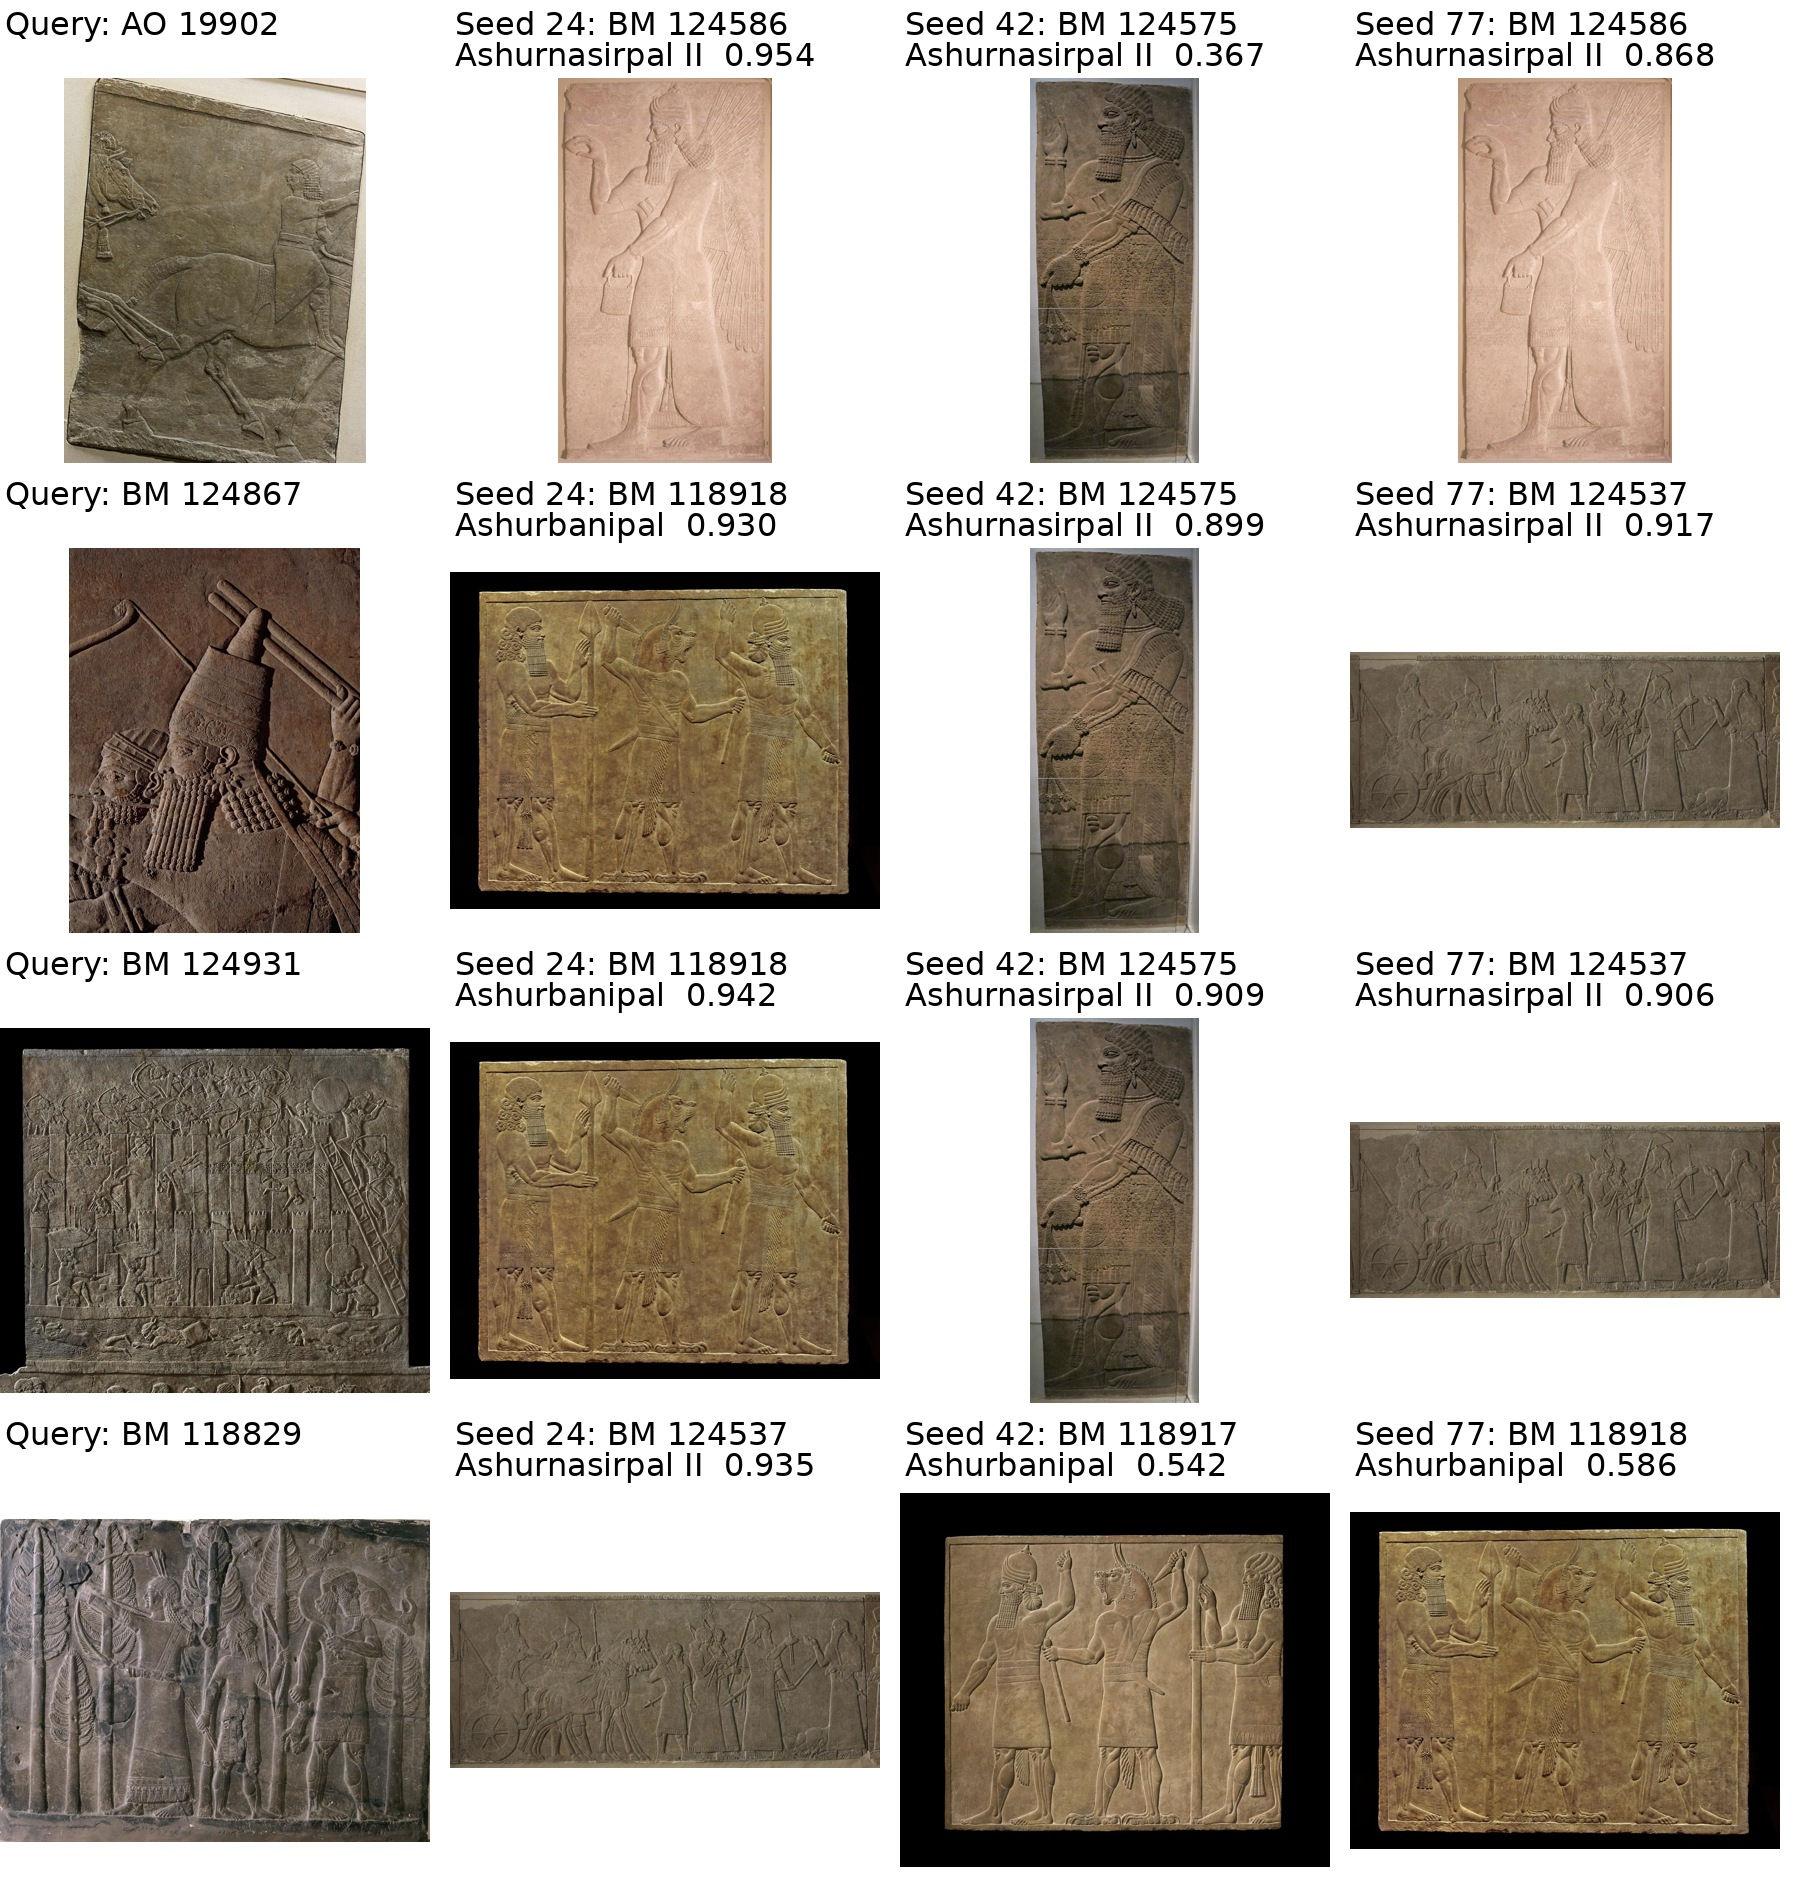
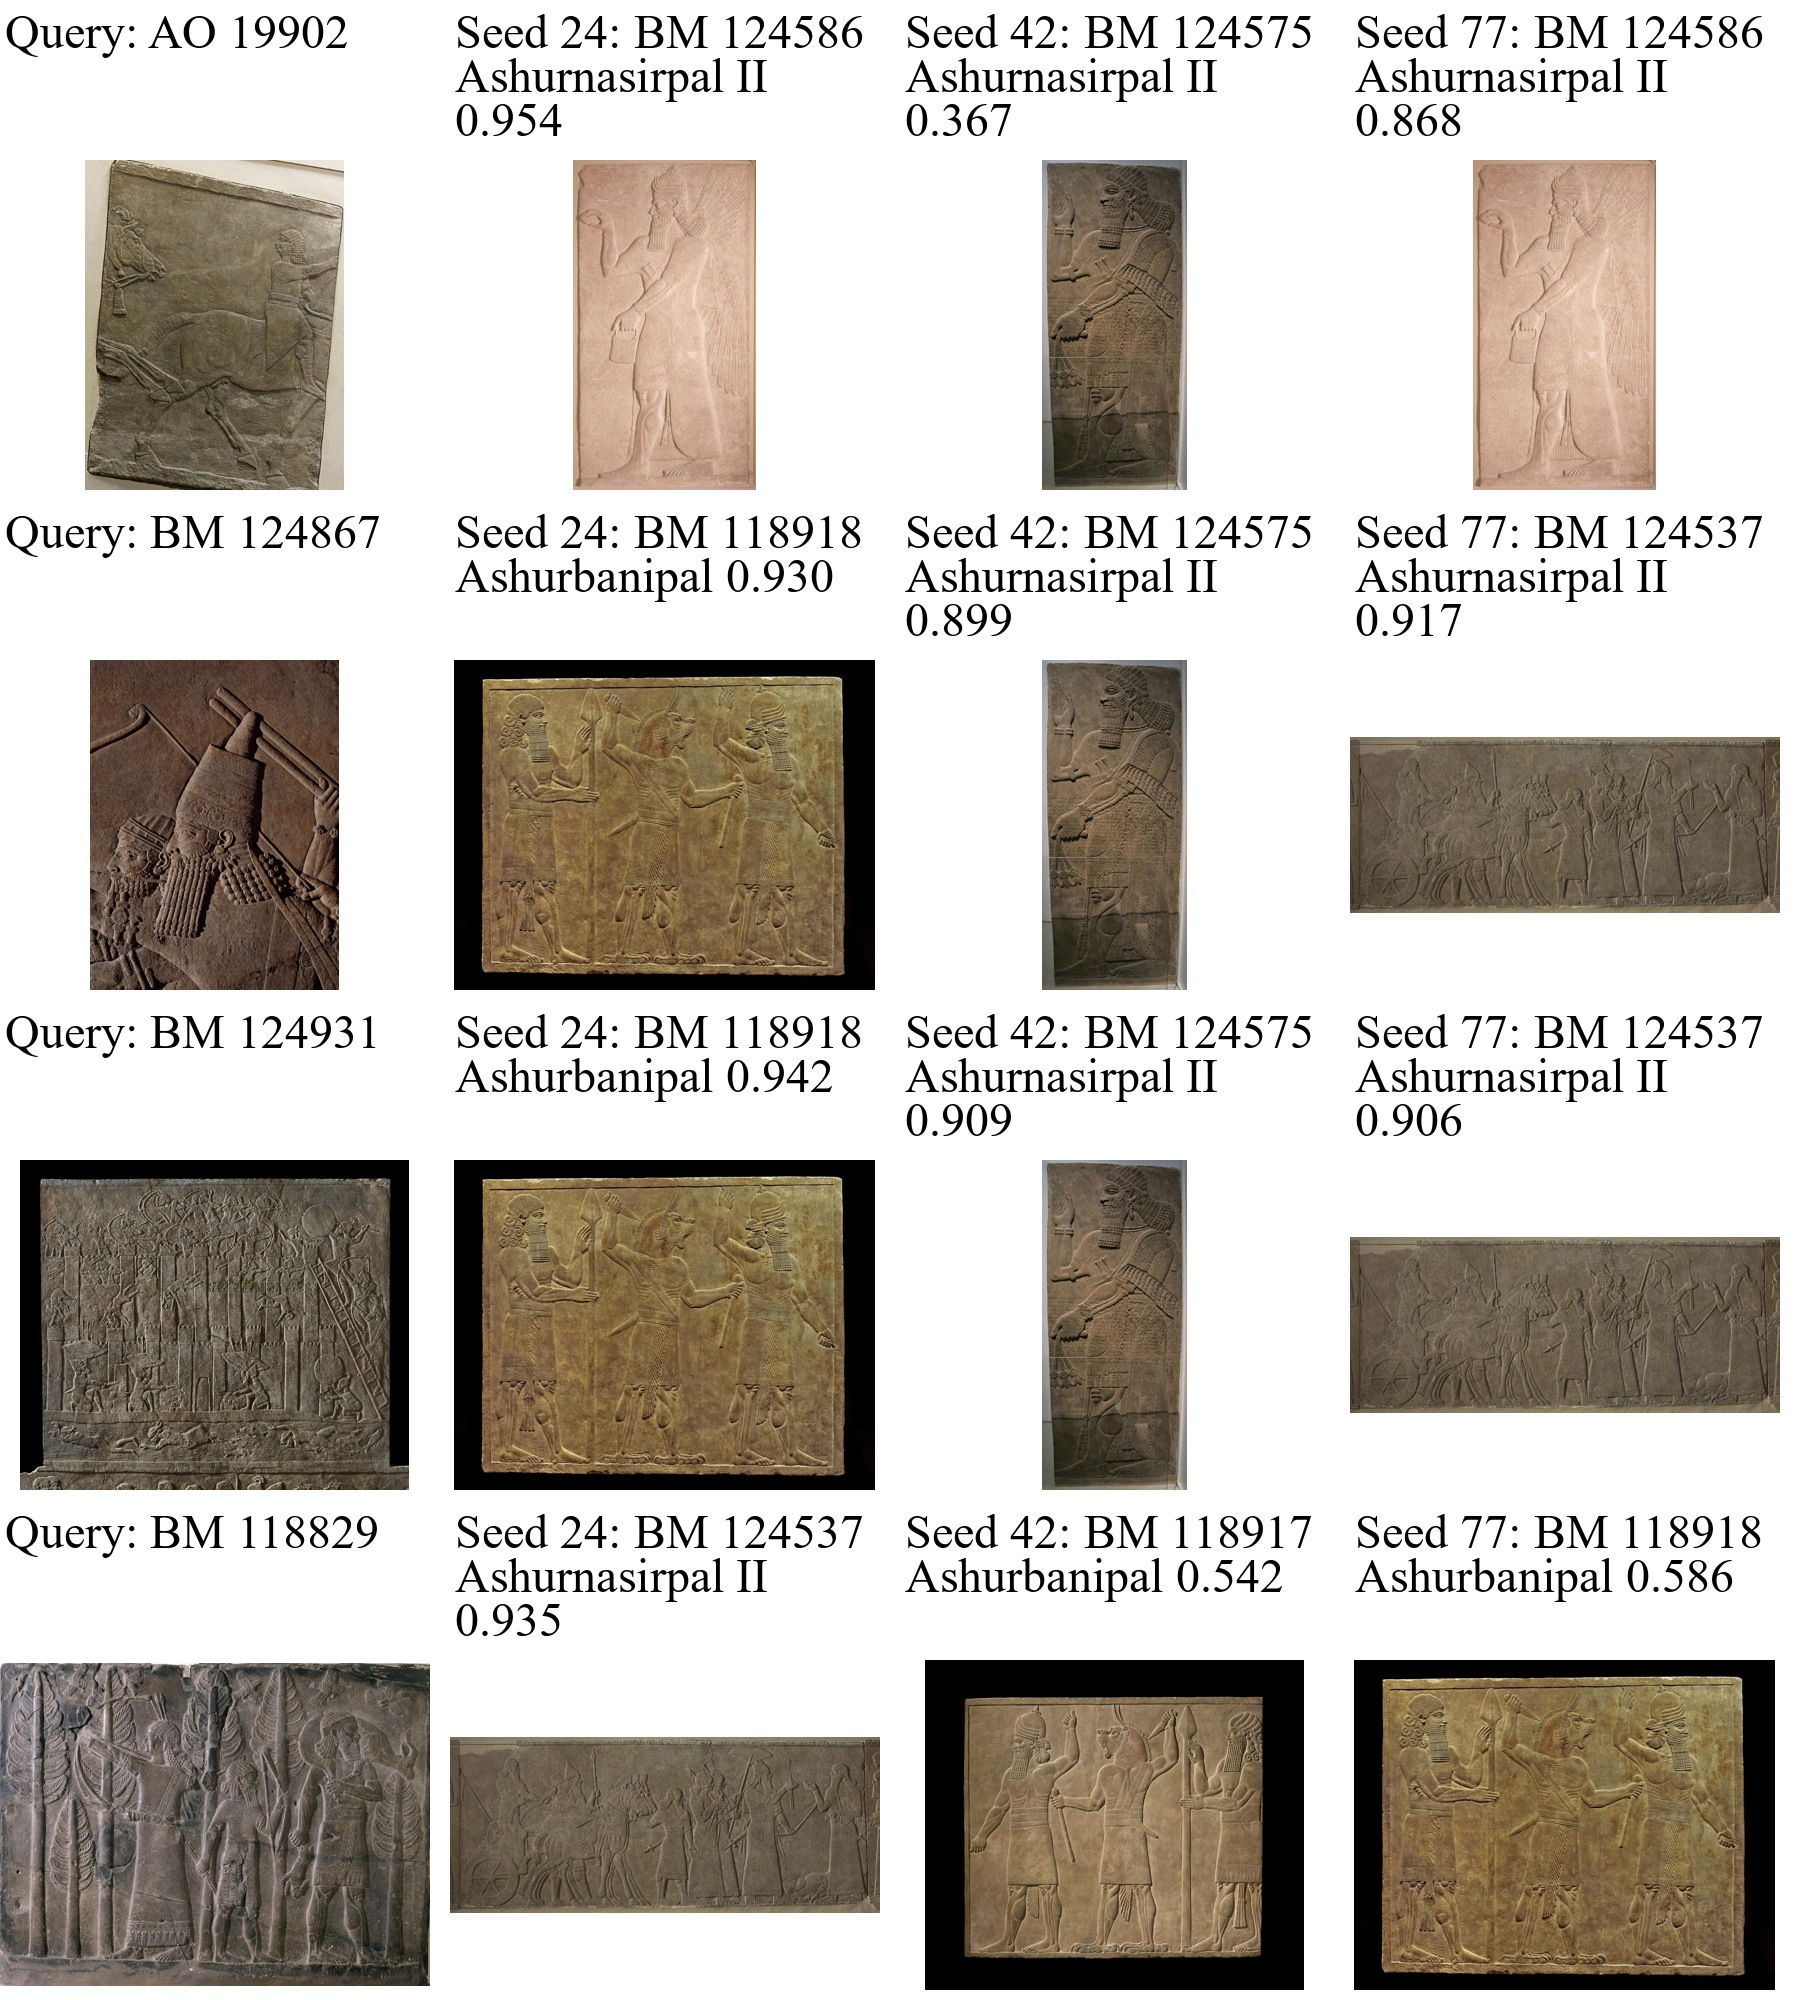
Align submission figures and record image credits and revised PDF

diff --git a/scripts/render_submission_figures.py b/scripts/render_submission_figures.py
@@ -12,6 +12,7 @@ import matplotlib
 matplotlib.use("Agg")
 import matplotlib.pyplot as plt
 from matplotlib.colors import TwoSlopeNorm
+from matplotlib import font_manager
 import numpy as np
 import pandas as pd
 from PIL import Image, ImageDraw, ImageFont
@@ -27,8 +28,38 @@ def main() -> None:
     report = root / "reports/stable_error_dossiers_2026-09-06"
     hashes = {}
 
+    font_path = next(p for p in [Path("C:/Windows/Fonts/times.ttf"), Path("/mnt/c/Windows/Fonts/times.ttf")] if p.exists())
+    for font_file in ["times.ttf", "timesbd.ttf", "timesi.ttf", "timesbi.ttf"]:
+        font_manager.fontManager.addfont(str(font_path.parent / font_file))
+    plt.rcParams.update({"font.family": "Times New Roman", "font.size": 12,
+                         "axes.titlesize": 12, "axes.labelsize": 12,
+                         "legend.fontsize": 12, "xtick.labelsize": 12,
+                         "ytick.labelsize": 12})
+    # The manuscript text block is 16 cm; figures are placed at their native width.
+    width_inches = 16 / 2.54
+
     def record(path: Path) -> None:
         hashes[str(path.relative_to(root.parent))] = hashlib.sha256(path.read_bytes()).hexdigest()
+
+    prediction_path = root / "outputs/grouped_seed42/eval/test_dependency_group_predictions.csv"
+    record(prediction_path)
+    predictions = pd.read_csv(prediction_path)
+    matrix = np.zeros((3, 3), dtype=int)
+    np.add.at(matrix, (predictions.true_label.to_numpy(), predictions.pred_label.to_numpy()), 1)
+    assert matrix.sum() == 39 and matrix.trace() == 32
+    labels = ["Ashurbanipal", "Ashurnasirpal II", "Sargon II"]
+    fig, ax = plt.subplots(figsize=(width_inches, 5.3), constrained_layout=True)
+    shown = ax.imshow(matrix, cmap="Blues", vmin=0)
+    ax.set_xticks(range(3), labels)
+    ax.set_yticks(range(3), labels)
+    ax.set_xlabel("Predicted label")
+    ax.set_ylabel("Catalogue label")
+    for (row, col), value in np.ndenumerate(matrix):
+        ax.text(col, row, str(value), ha="center", va="center", fontsize=12,
+                color="white" if value > matrix.max()/2 else "black")
+    fig.colorbar(shown, ax=ax, fraction=.04, pad=.035)
+    fig.savefig(figures / "confusion_matrix_dependency_groups.png", dpi=300)
+    plt.close(fig)
 
     coords = root / "outputs/grouped_seed42/eval/umap_dependency_groups.csv"
     record(coords)
@@ -39,8 +70,7 @@ def main() -> None:
     authority = {"Ashurbanipal": "#3B6FB6", "Ashurnasirpal II": "#D17A22", "Sargon II": "#2F8F5B"}
     sources = {"BM": "#3B6FB6", "AO": "#C44E52", "MET": "#55A868", "Other": "#8172B2"}
     splits = {"train": "o", "val": "s", "test": "^"}
-    plt.rcParams.update({"font.size": 10, "axes.titlesize": 11, "axes.labelsize": 10, "legend.fontsize": 9.5})
-    fig, axes = plt.subplots(2, 1, figsize=(6.3, 7.1), sharex=True, sharey=True, constrained_layout=True)
+    fig, axes = plt.subplots(2, 1, figsize=(width_inches, 7.0), sharex=True, sharey=True, constrained_layout=True)
     for ax, col, colors, title in [(axes[0], "authority", authority, "A. Monarch attribution"), (axes[1], "source", sources, "B. Museum/source prefix")]:
         for split, marker in splits.items():
             for category, color in colors.items():
@@ -74,19 +104,19 @@ def main() -> None:
         source = Image.open(photo).convert("RGB").resize((224, 224))
         vmax = np.percentile(np.abs(heatmap), 98)
         norm = TwoSlopeNorm(vmin=-vmax if vmax > 1e-8 else -1, vcenter=0, vmax=vmax if vmax > 1e-8 else 1)
-        fig, axes = plt.subplots(1, 3, figsize=(6.3, 2.95), constrained_layout=True)
+        fig, axes = plt.subplots(1, 3, figsize=(width_inches, 3.1), constrained_layout=True)
         axes[0].imshow(source)
-        axes[0].set_title("Input (224 × 224)", fontsize=9.5)
+        axes[0].set_title("Input (224 × 224)", fontsize=12)
         hm = axes[1].imshow(heatmap, cmap="coolwarm", norm=norm)
-        axes[1].set_title("Occlusion effect", fontsize=9.5)
+        axes[1].set_title("Occlusion effect", fontsize=12)
         cb = fig.colorbar(hm, ax=axes[1], fraction=.05, pad=.025)
-        cb.ax.tick_params(labelsize=8)
+        cb.ax.tick_params(labelsize=12)
         axes[2].imshow(source)
         axes[2].imshow(heatmap, cmap="coolwarm", norm=norm, alpha=.4)
-        axes[2].set_title("Overlay", fontsize=9.5)
+        axes[2].set_title("Overlay", fontsize=12)
         for ax in axes:
             ax.axis("off")
-        fig.suptitle(f"{positive} − {negative}\nPrediction: {meta['pred_class']} ({meta['pred_prob']:.3f}); label: {meta['true_class']}", fontsize=9.5)
+        fig.suptitle(f"{positive} − {negative}\nPrediction: {meta['pred_class']} ({meta['pred_prob']:.3f}); label: {meta['true_class']}", fontsize=12)
         fig.savefig(figures / output, dpi=300)
         plt.close(fig)
 
@@ -94,9 +124,8 @@ def main() -> None:
     record(ranks)
     with ranks.open() as f:
         rows = list(csv.DictReader(f))
-    font_path = next(p for p in [Path("C:/Windows/Fonts/arial.ttf"), Path("/usr/share/fonts/truetype/dejavu/DejaVuSans.ttf")] if p.exists())
-    font = ImageFont.truetype(str(font_path), 32)
-    sheet = Image.new("RGB", (1800, 1880), "white")
+    font = ImageFont.truetype(str(font_path), 48)
+    sheet = Image.new("RGB", (1800, 2000), "white")
     draw = ImageDraw.Draw(sheet)
     for row, query in enumerate(["AO 19902", "BM 124867", "BM 124931", "BM 118829"]):
         cells = [(f"Query: {query}", query)]
@@ -109,14 +138,29 @@ def main() -> None:
             photo = sorted(image_root.glob(accession + "-*.jpg"))[0]
             record(photo)
             image = Image.open(photo).convert("RGB")
-            image.thumbnail((430, 385))
-            x, y = col*450, row*470
-            sheet.paste(image, (x+(430-image.width)//2, y+78+(385-image.height)//2))
-            draw.multiline_text((x+5,y+5), label, font=font, fill="black", spacing=1)
+            image.thumbnail((430, 330))
+            x, y = col*450, row*500
+            sheet.paste(image, (x+(430-image.width)//2, y+160+(330-image.height)//2))
+            lines = []
+            for line in label.splitlines():
+                words, current = line.split(), ""
+                for word in words:
+                    test = (current + " " + word).strip()
+                    if draw.textlength(test, font=font) > 430 and current:
+                        lines.append(current)
+                        current = word
+                    else:
+                        current = test
+                lines.append(current)
+            assert len(lines) <= 3, lines
+            label_text = "\n".join(lines)
+            box = draw.multiline_textbbox((0, 0), label_text, font=font, spacing=1)
+            assert box[2] <= 440 and box[3] <= 155, (label_text, box)
+            draw.multiline_text((x+5,y+5), label_text, font=font, fill="black", spacing=1)
     sheet.save(figures / "stable_error_neighbours.jpg", quality=93)
     sheet.save(report / "nearest_neighbours.jpg", quality=93)
     (report / "figure_input_hashes.json").write_text(json.dumps(hashes, indent=2)+"\n", encoding="utf-8")
-    print("Rendered four figures from unchanged saved coordinates, heatmaps, ranks and photographs.")
+    print("Rendered submission figures from unchanged saved coordinates, heatmaps, ranks and photographs.")
 
 
 if __name__ == "__main__":

diff --git a/reports/stable_error_dossiers_2026-09-06/IMAGE_CREDITS.md b/reports/stable_error_dossiers_2026-09-06/IMAGE_CREDITS.md
@@ -1,0 +1,42 @@
+# Credits for photographs in the case plates
+
+The photographs in all_views.jpg and nearest_neighbours.jpg retain their source rights. The code repository does not grant a blanket licence over museum photographs or mixed-source plates. Credits apply to every repeated occurrence and to all stored views of the named object. Photographs are scaled for display; source/curated images may have earlier manual crops.
+
+## Louvre
+
+- AO 19894: © 2003 GrandPalaisRmn (musée du Louvre) / Franck Raux. Object: https://collections.louvre.fr/ark:/53355/cl010122717
+
+- AO 19902: © 2012 GrandPalaisRmn (musée du Louvre) / Franck Raux. Object: https://collections.louvre.fr/ark:/53355/cl010123112
+
+- AO 19909: © 1996 GrandPalaisRmn (musée du Louvre) / Hervé Lewandowski. Object: https://collections.louvre.fr/ark:/53355/cl010123119
+
+
+Louvre terms: https://collections.louvre.fr/page/cgu . The listed exact image credits are preserved in the stored Louvre image metadata. The medium-resolution reuse terms distinguish digital scientific uses from other publication/distribution.
+
+
+## British Museum
+
+
+Requested institutional credit: © The Trustees of the British Museum. Source: British Museum Collections Online.
+
+- BM 118829: https://www.britishmuseum.org/collection/object/W_1851-0902-34
+
+- BM 118917: https://www.britishmuseum.org/collection/object/W_1856-0909-27
+
+- BM 118918: https://www.britishmuseum.org/collection/object/W_1856-0909-26
+
+- BM 124537: https://www.britishmuseum.org/collection/object/W_1847-0623-10
+
+- BM 124575: https://www.britishmuseum.org/collection/object/W_1999-0122-2
+
+- BM 124586: https://www.britishmuseum.org/collection/object/W_1847-0623-4
+
+- BM 124867: https://www.britishmuseum.org/collection/object/W_1856-0909-16_3
+
+- BM 124931: https://www.britishmuseum.org/collection/object/W_1856-0909-17-18_2
+
+
+Terms: https://www.britishmuseum.org/terms-use/copyright-and-permissions . Qualifying thesis/research reproduction remains subject to the image's actual licence and any third-party exception. Individual Creative Commons markings were not independently verified in this pass: direct image pages were unavailable and no useful copyright EXIF survived in the curated files. These source credits are not a clearance certificate.
+
+
+The original-space rankings and numerical graphics were generated by the thesis author. Any applicable source licence is retained for reused photographs and adaptations; no institution's endorsement is implied. Wider corpus redistribution/training permissions and subsequent commercial publication require separate review.

diff --git a/FINAL_SUBMISSION_HANDOFF.md b/FINAL_SUBMISSION_HANDOFF.md
@@ -1,6 +1,16 @@
 # Final submission handoff — 6 September 2026
 
-## Current status — 7 September 2026
+## Latest user-requested revision — 7 September 2026
+
[1 lines of base64/hex data omitted]
+
+The user explicitly requested English title → Hebrew title → English supervision → Hebrew supervision, with Hebrew abstract immediately after English abstract. Applied with updated contents and continuous preliminary numbering. English/Hebrew text now shares 12-point Times New Roman, including titles/headings/captions/tables/checksum/references; genuine smaller notes and mathematical notation remain. All pages and final changes were visually checked; build warnings are zero.
+
+Added Appendix A (reproducibility/code record) and Appendix B (ten photograph credits/sources). The repository's case plates have their own `IMAGE_CREDITS.md`. Individual BM image licence markings remain unverified; do not describe the corpus or every reproduced image as cleared. Wider training/redistribution permissions and remote Overleaf font/compiler availability remain separate checks. No retraining, numerical result change, external inference, communication or portal submission occurred.
+
+Current QA: `../thesis-overleaf/audit/followup_submission_qa_2026-09-07.md` and companion JSON. Fourteen numerical input hashes unchanged; seventeen figure-input hashes verified. Renderer assertions and Ruff passed. Earlier phase records below are historical; do not restart those audits. Manuscript checkpoint b2c5eb3722ab80f5309d1a2a17c83eebaca4f073 was pushed to Overleaf and its remote HEAD verified. The companion model changes and this handoff are recorded together in the next Git checkpoint. Compiled PDFs remain local ignored artifacts; no remote Overleaf compilation was checked.
+
+## Previous 57-page revision — 7 September 2026
 
[1 lines of base64/hex data omitted]
 

diff --git a/reports/stable_error_dossiers_2026-09-06/README.md b/reports/stable_error_dossiers_2026-09-06/README.md
@@ -38,3 +38,7 @@ No Balawat or White Obelisk inference was run. Shalmaneser III and Ashurnasirpal
 `../../scripts/render_submission_figures.py` regenerates final thesis figures from saved inputs. It increases neighbour-label size and records hashes in `figure_input_hashes.json`. The first stored view remains the plate representative; all dependent views remain in `all_views.jpg` and `image_inventory.json`. No neighbour, cosine score or source photo changed.
 
 The script arranges existing 171 UMAP coordinates vertically and renders the two existing occlusion maps with readable labels. It does not fit UMAP or run inference. Occlusion limits retain the 98th percentile of absolute map values, zero-centred normalisation and 0.4 overlay alpha. All 16 figure-input hashes were reverified, and final figures were visually checked.
+
+## Photograph credits and revised typography
+
+See [IMAGE_CREDITS.md](IMAGE_CREDITS.md) for the actual museum credits and unresolved individual licence checks for both plates. The thesis revision now renders scientific labels in Times New Roman at approximately 12 points at the final placement width, including the confusion matrix. All figures still use saved numerical inputs; no model fit or inference occurred. The bilingual page order and current PDF are recorded in the latest final handoff.
